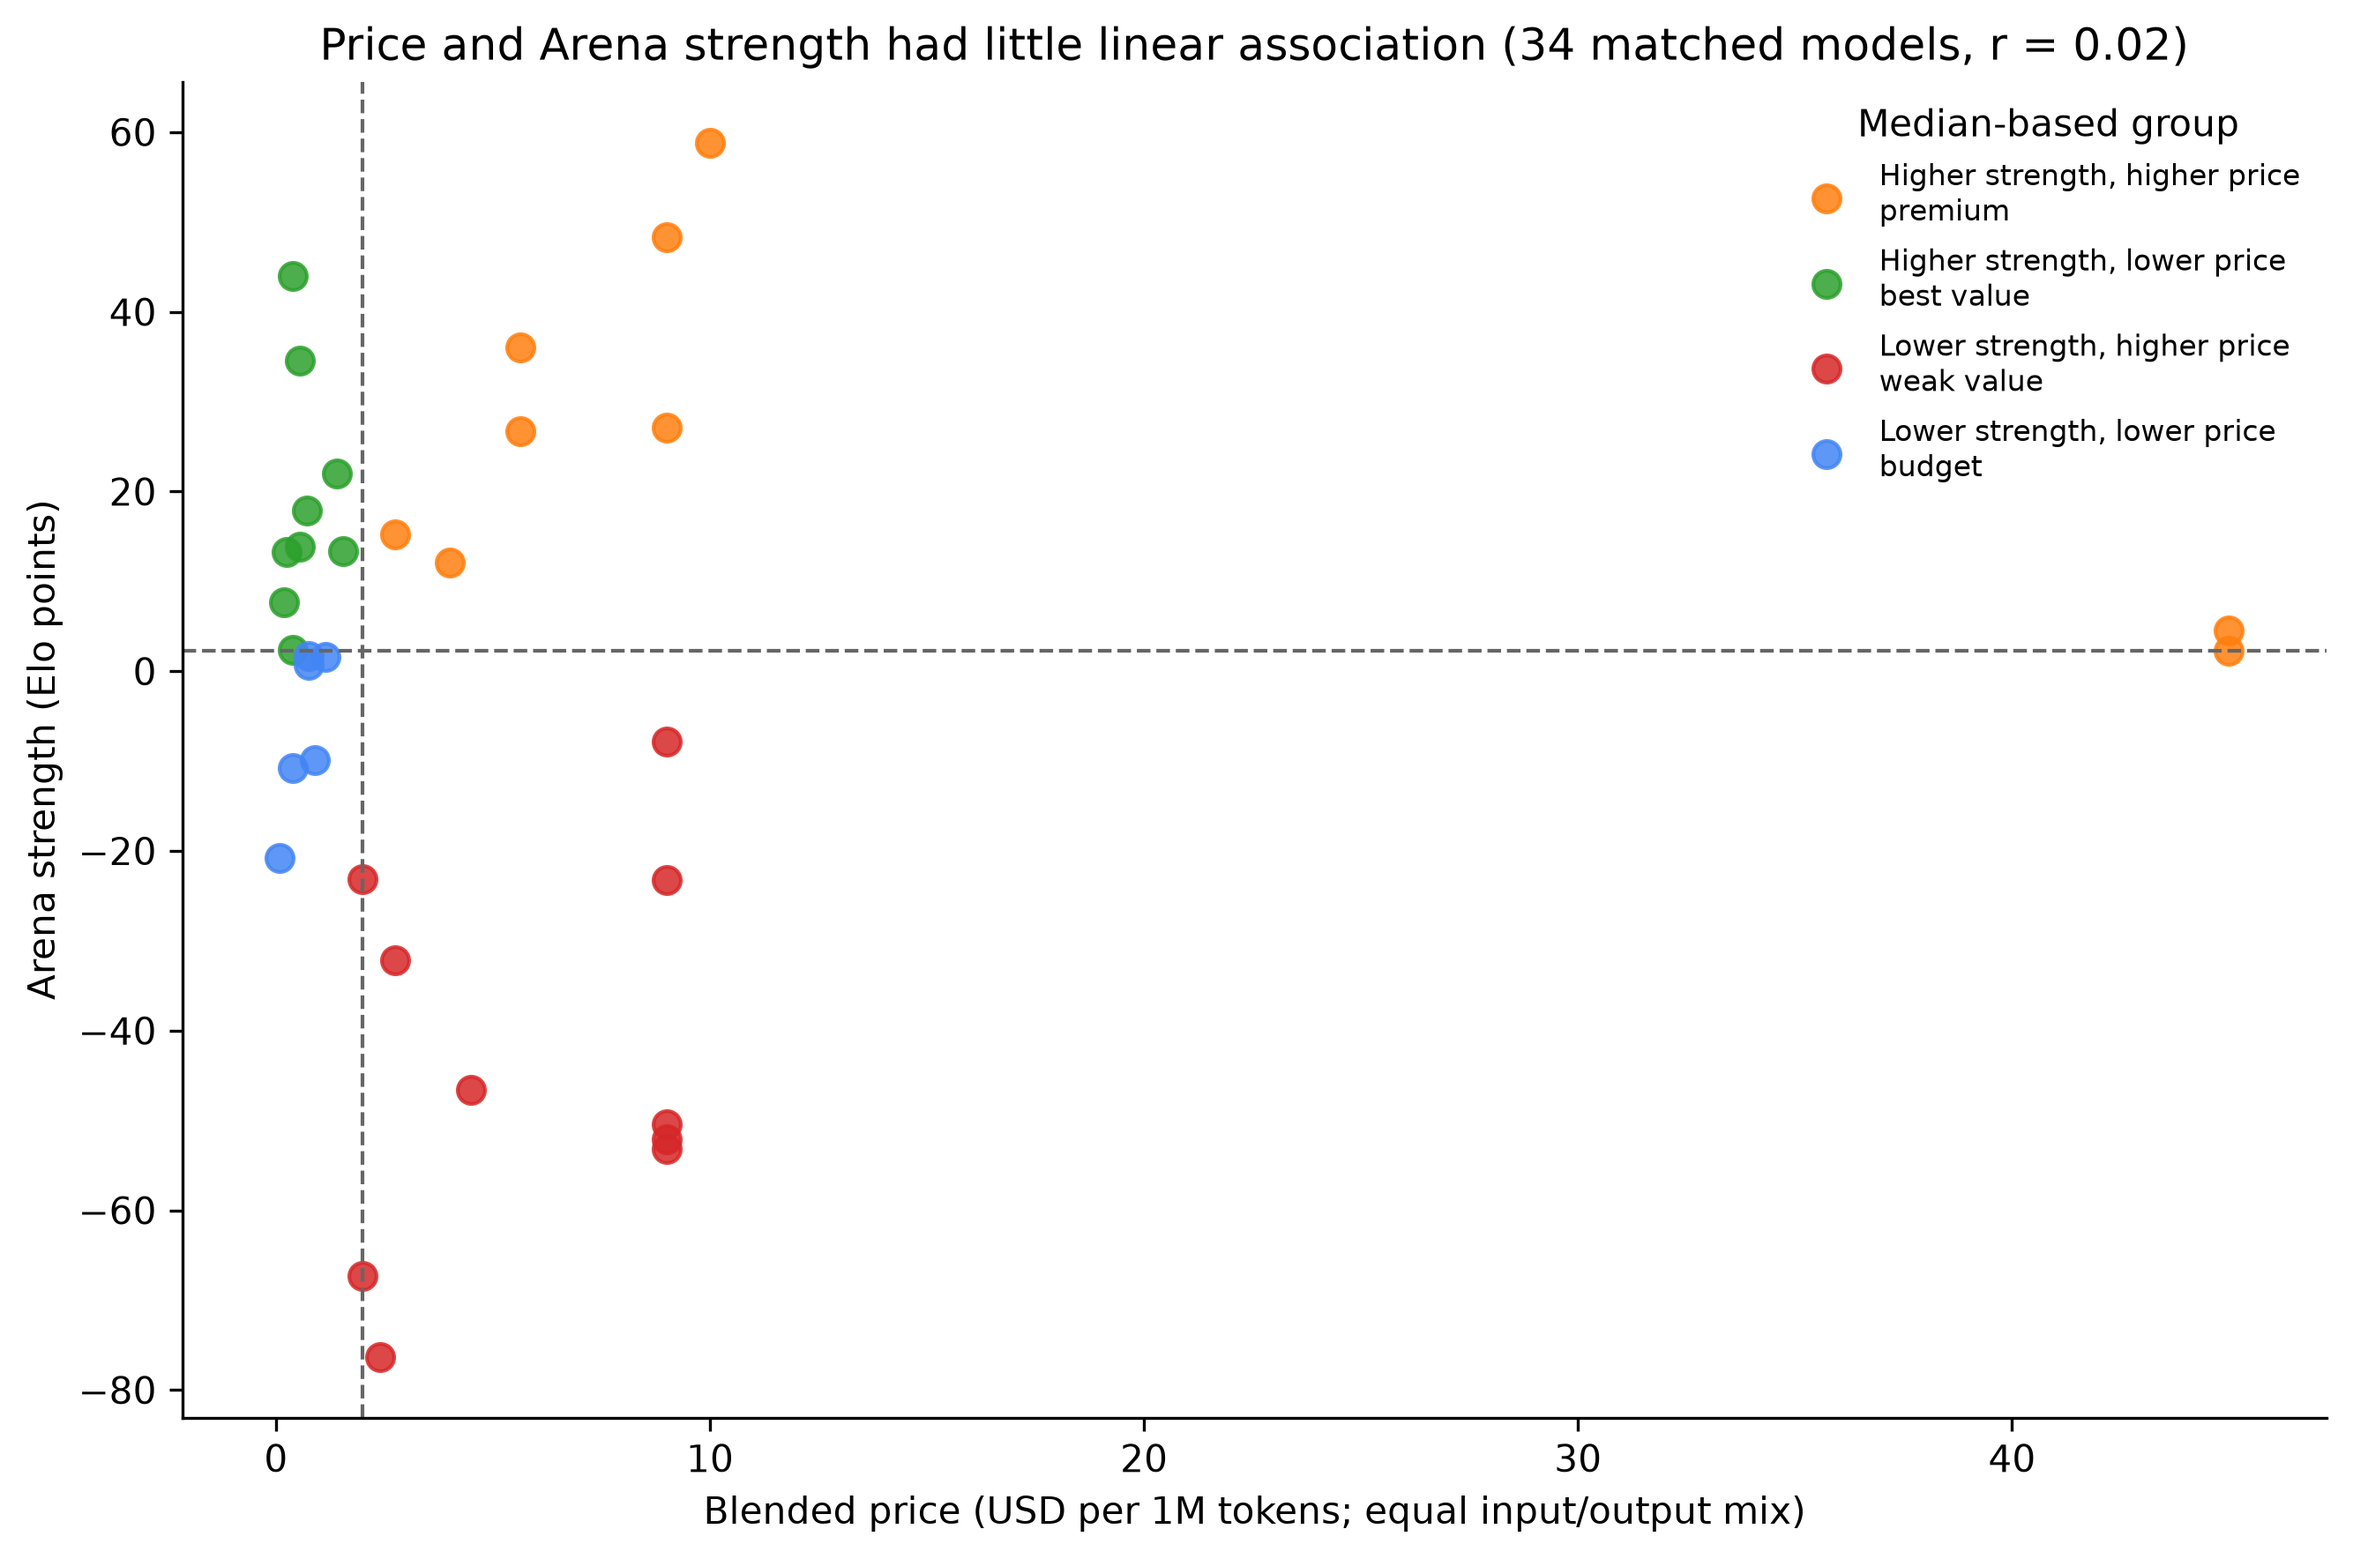
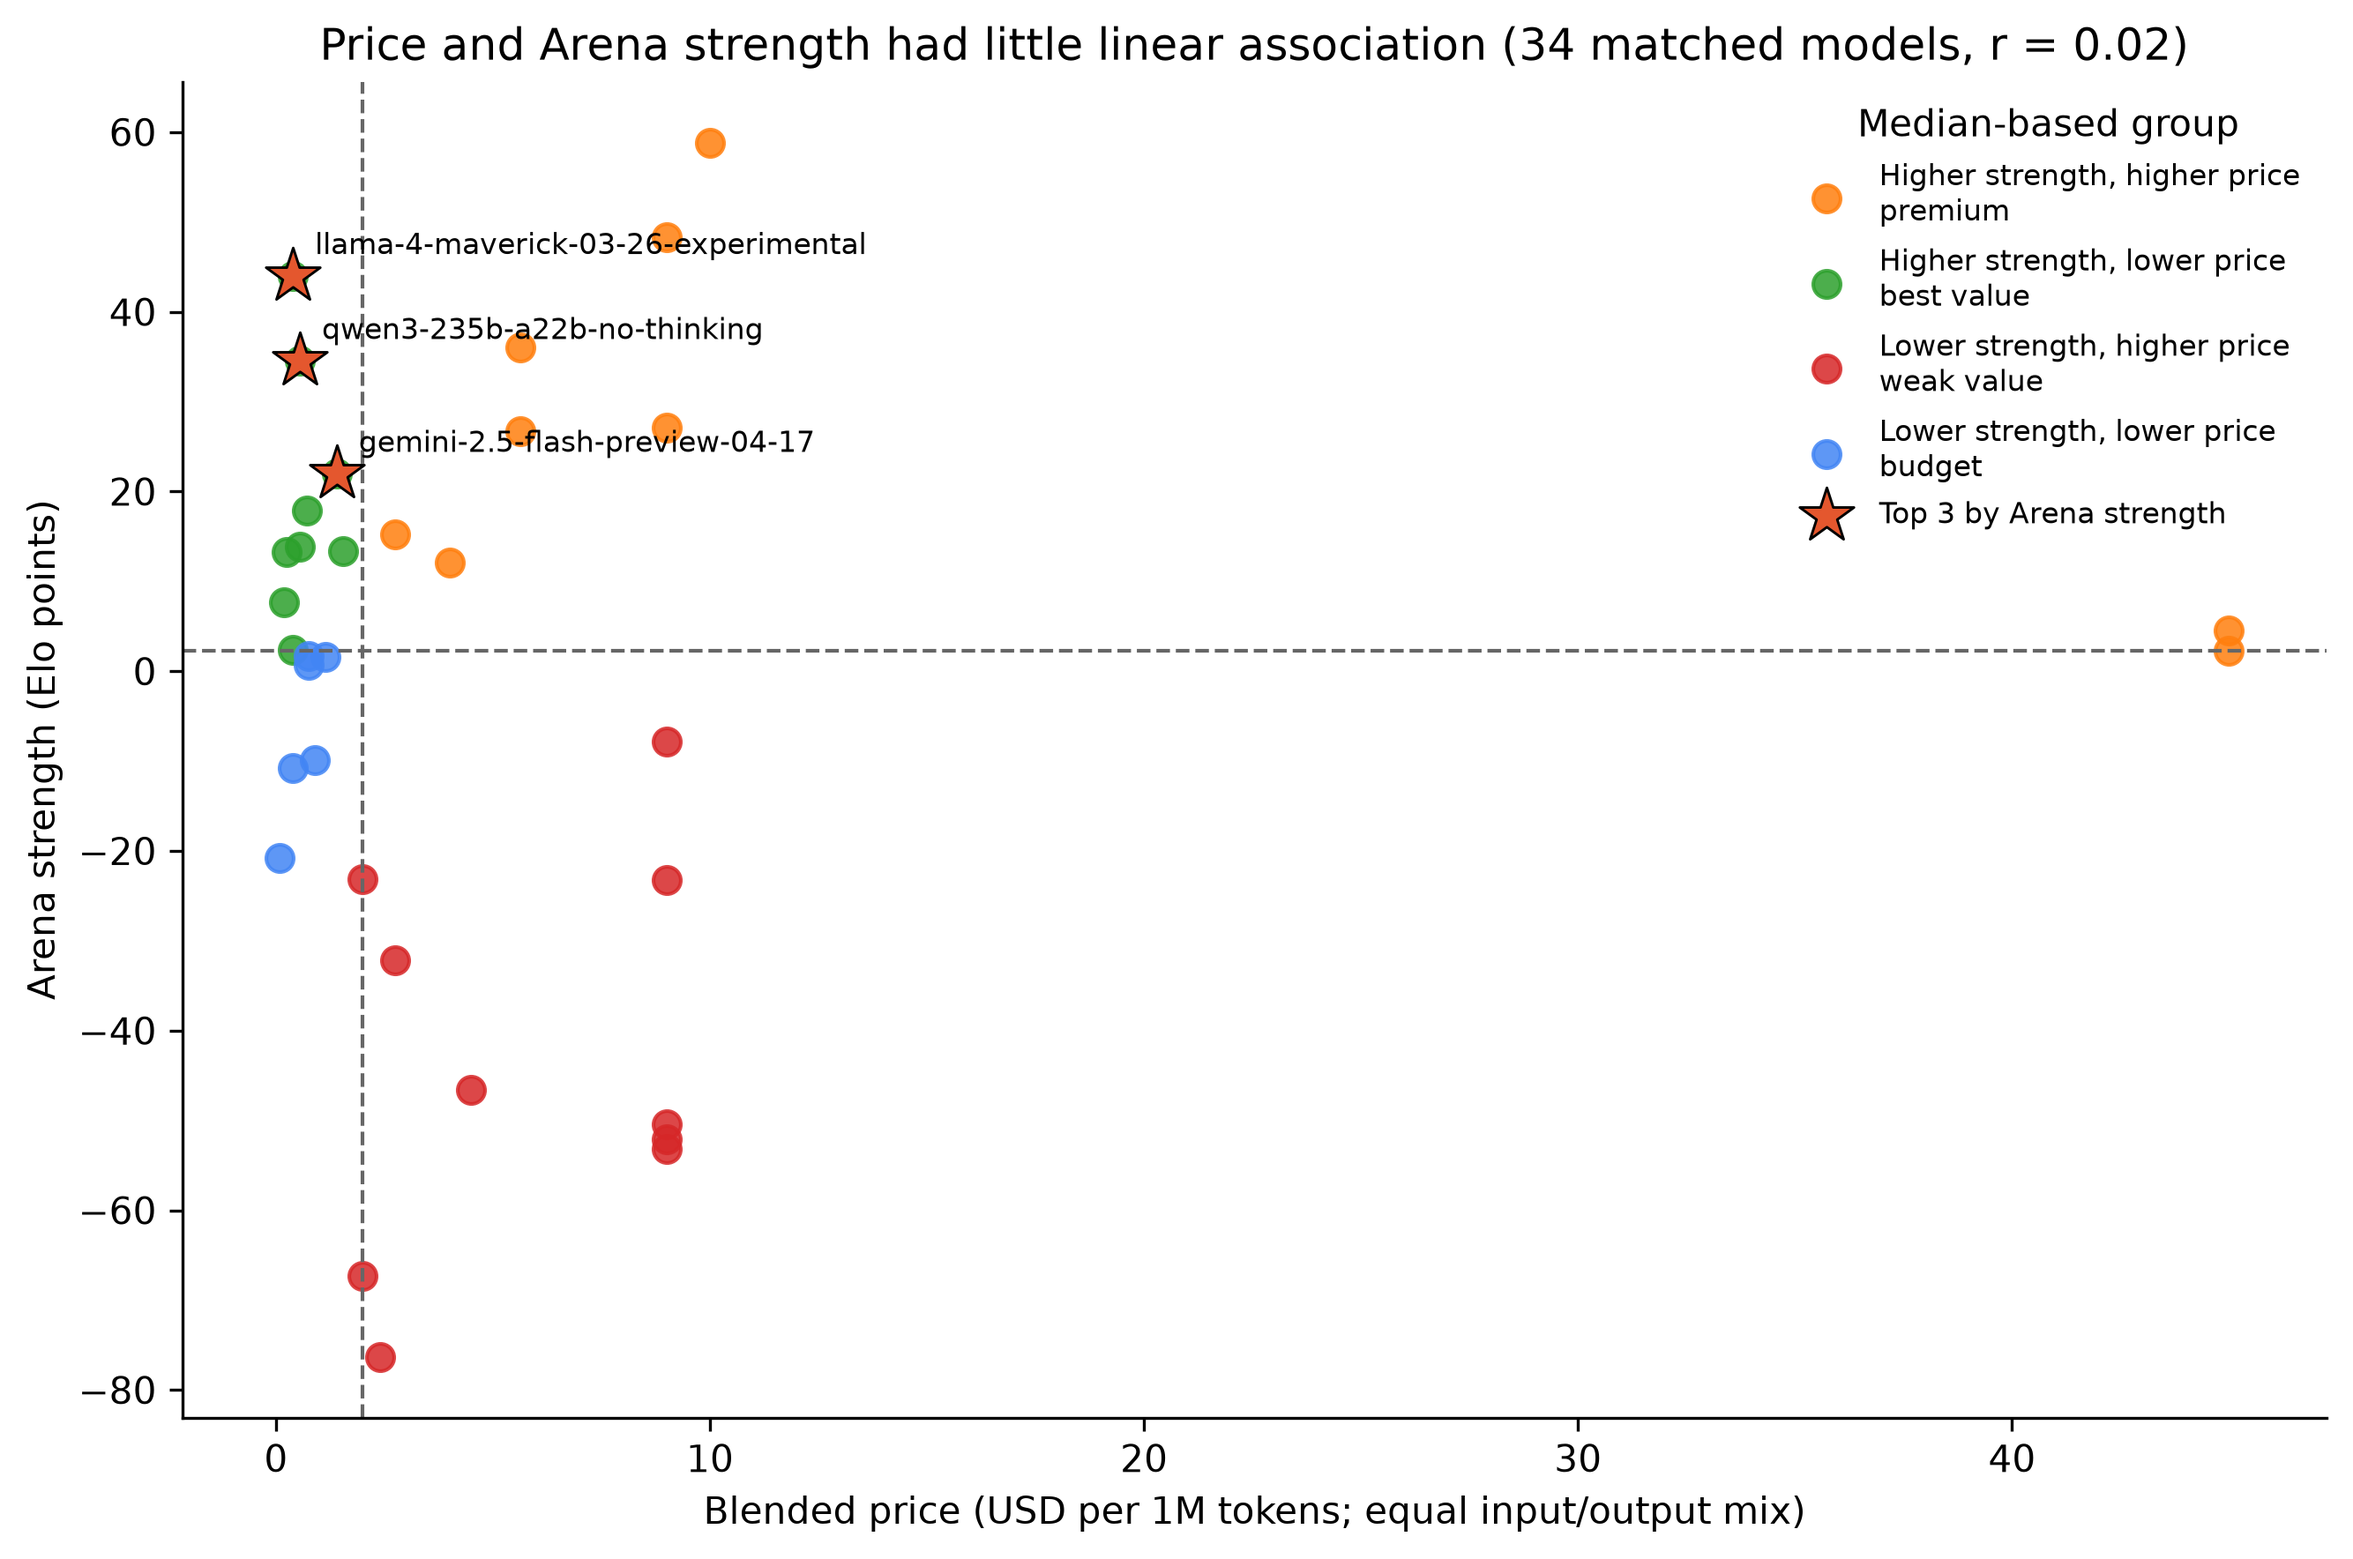
Added top 3 model differentiation to decision matrix plot

Changed region(s): [[0.0933, 0.1555, 0.3111, 0.2489], [0.1244, 0.28, 0.3422, 0.3111], [0.7466, 0.3111, 0.9333, 0.3422]]

diff --git a/Rev-Project-0/src/visualizations/create_charts.py b/Rev-Project-0/src/visualizations/create_charts.py
@@ -211,6 +211,10 @@ def plot_price_strength():
           AND strength_elo IS NOT NULL
     """
     df = query_df(sql)
+    top3 = (
+        df[df["matrix_quadrant"].str.startswith("Higher strength, lower price")]
+        .nlargest(3, "strength_elo")
+    )
 
     colors = {
         "Higher strength, lower price — best value": "#2CA02C",
@@ -232,6 +236,28 @@ def plot_price_strength():
             color=color,
             label=label,
         )
+
+    ax.scatter(
+        top3["blended_usd_per_m"],
+        top3["strength_elo"],
+        marker="*",
+        s=240,
+        color="#E4572E",
+        edgecolors="black",
+        linewidths=0.7,
+        zorder=10,
+        label="Top 3 by Arena strength",
+        )
+
+    for _, row in top3.iterrows():
+        ax.annotate(
+            row["model"],
+            (row["blended_usd_per_m"], row["strength_elo"]),
+            xytext=(6, 6),
+            textcoords="offset points",
+            fontsize=8,
+        )
+    
 
     median_price = df["median_price"].iloc[0]
     median_strength = df["median_strength"].iloc[0]
